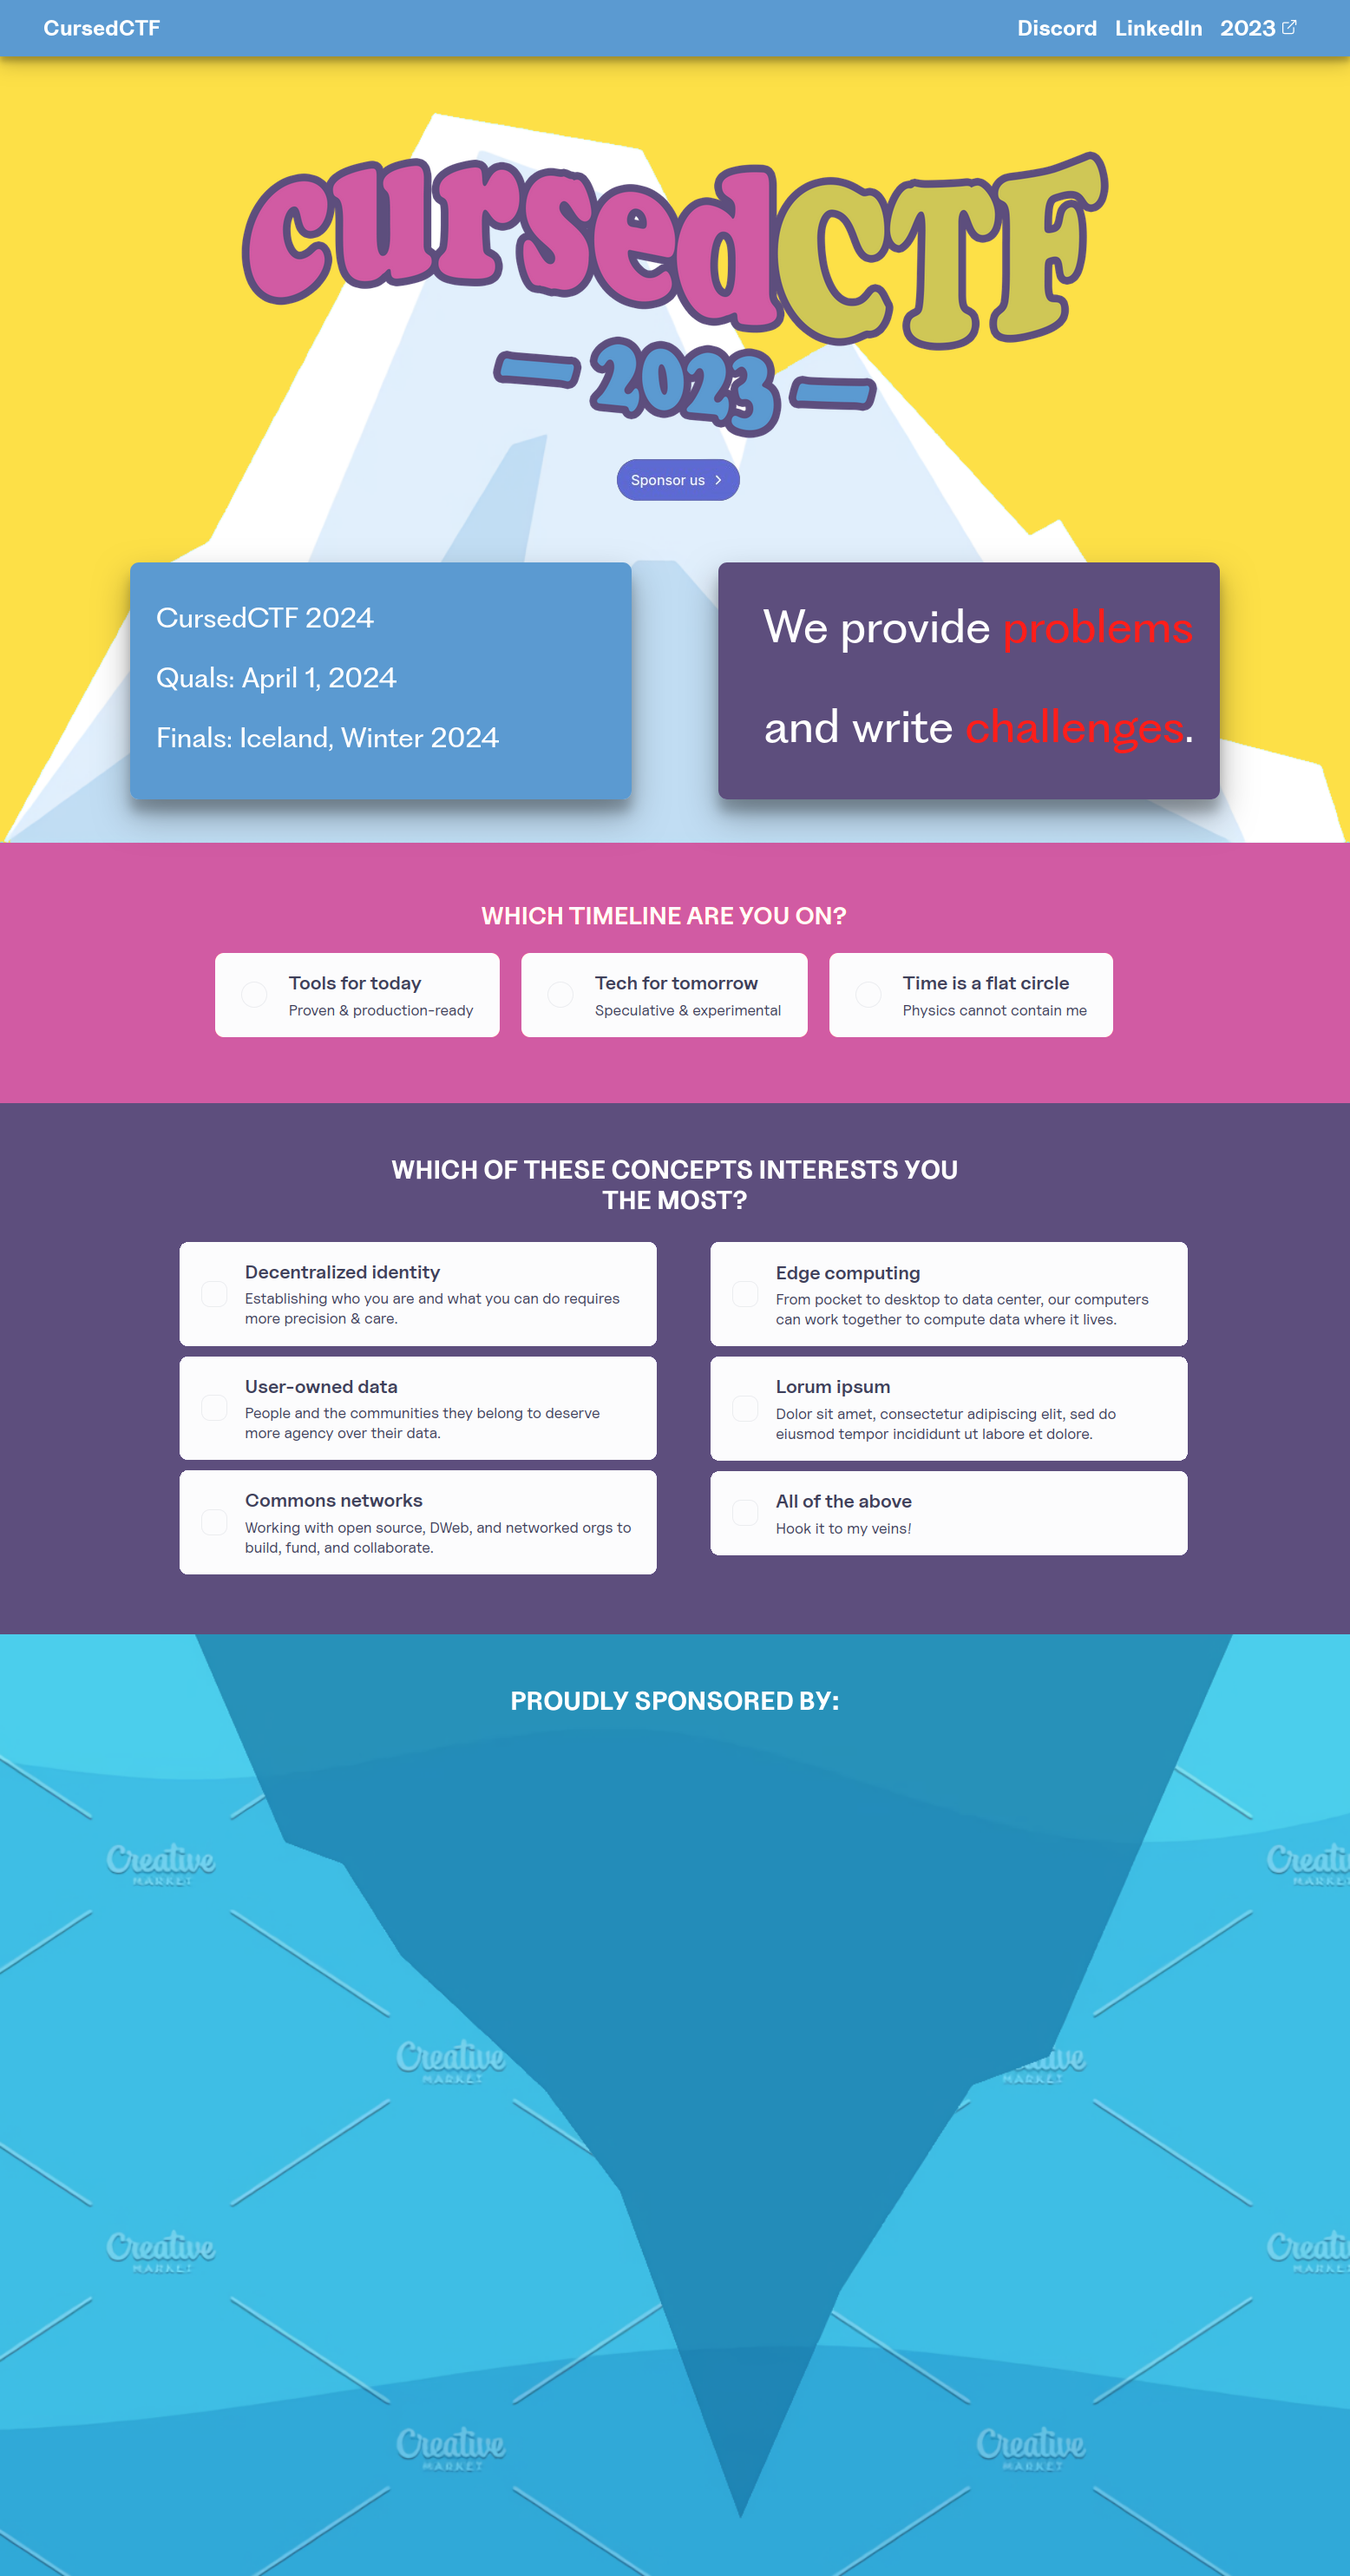
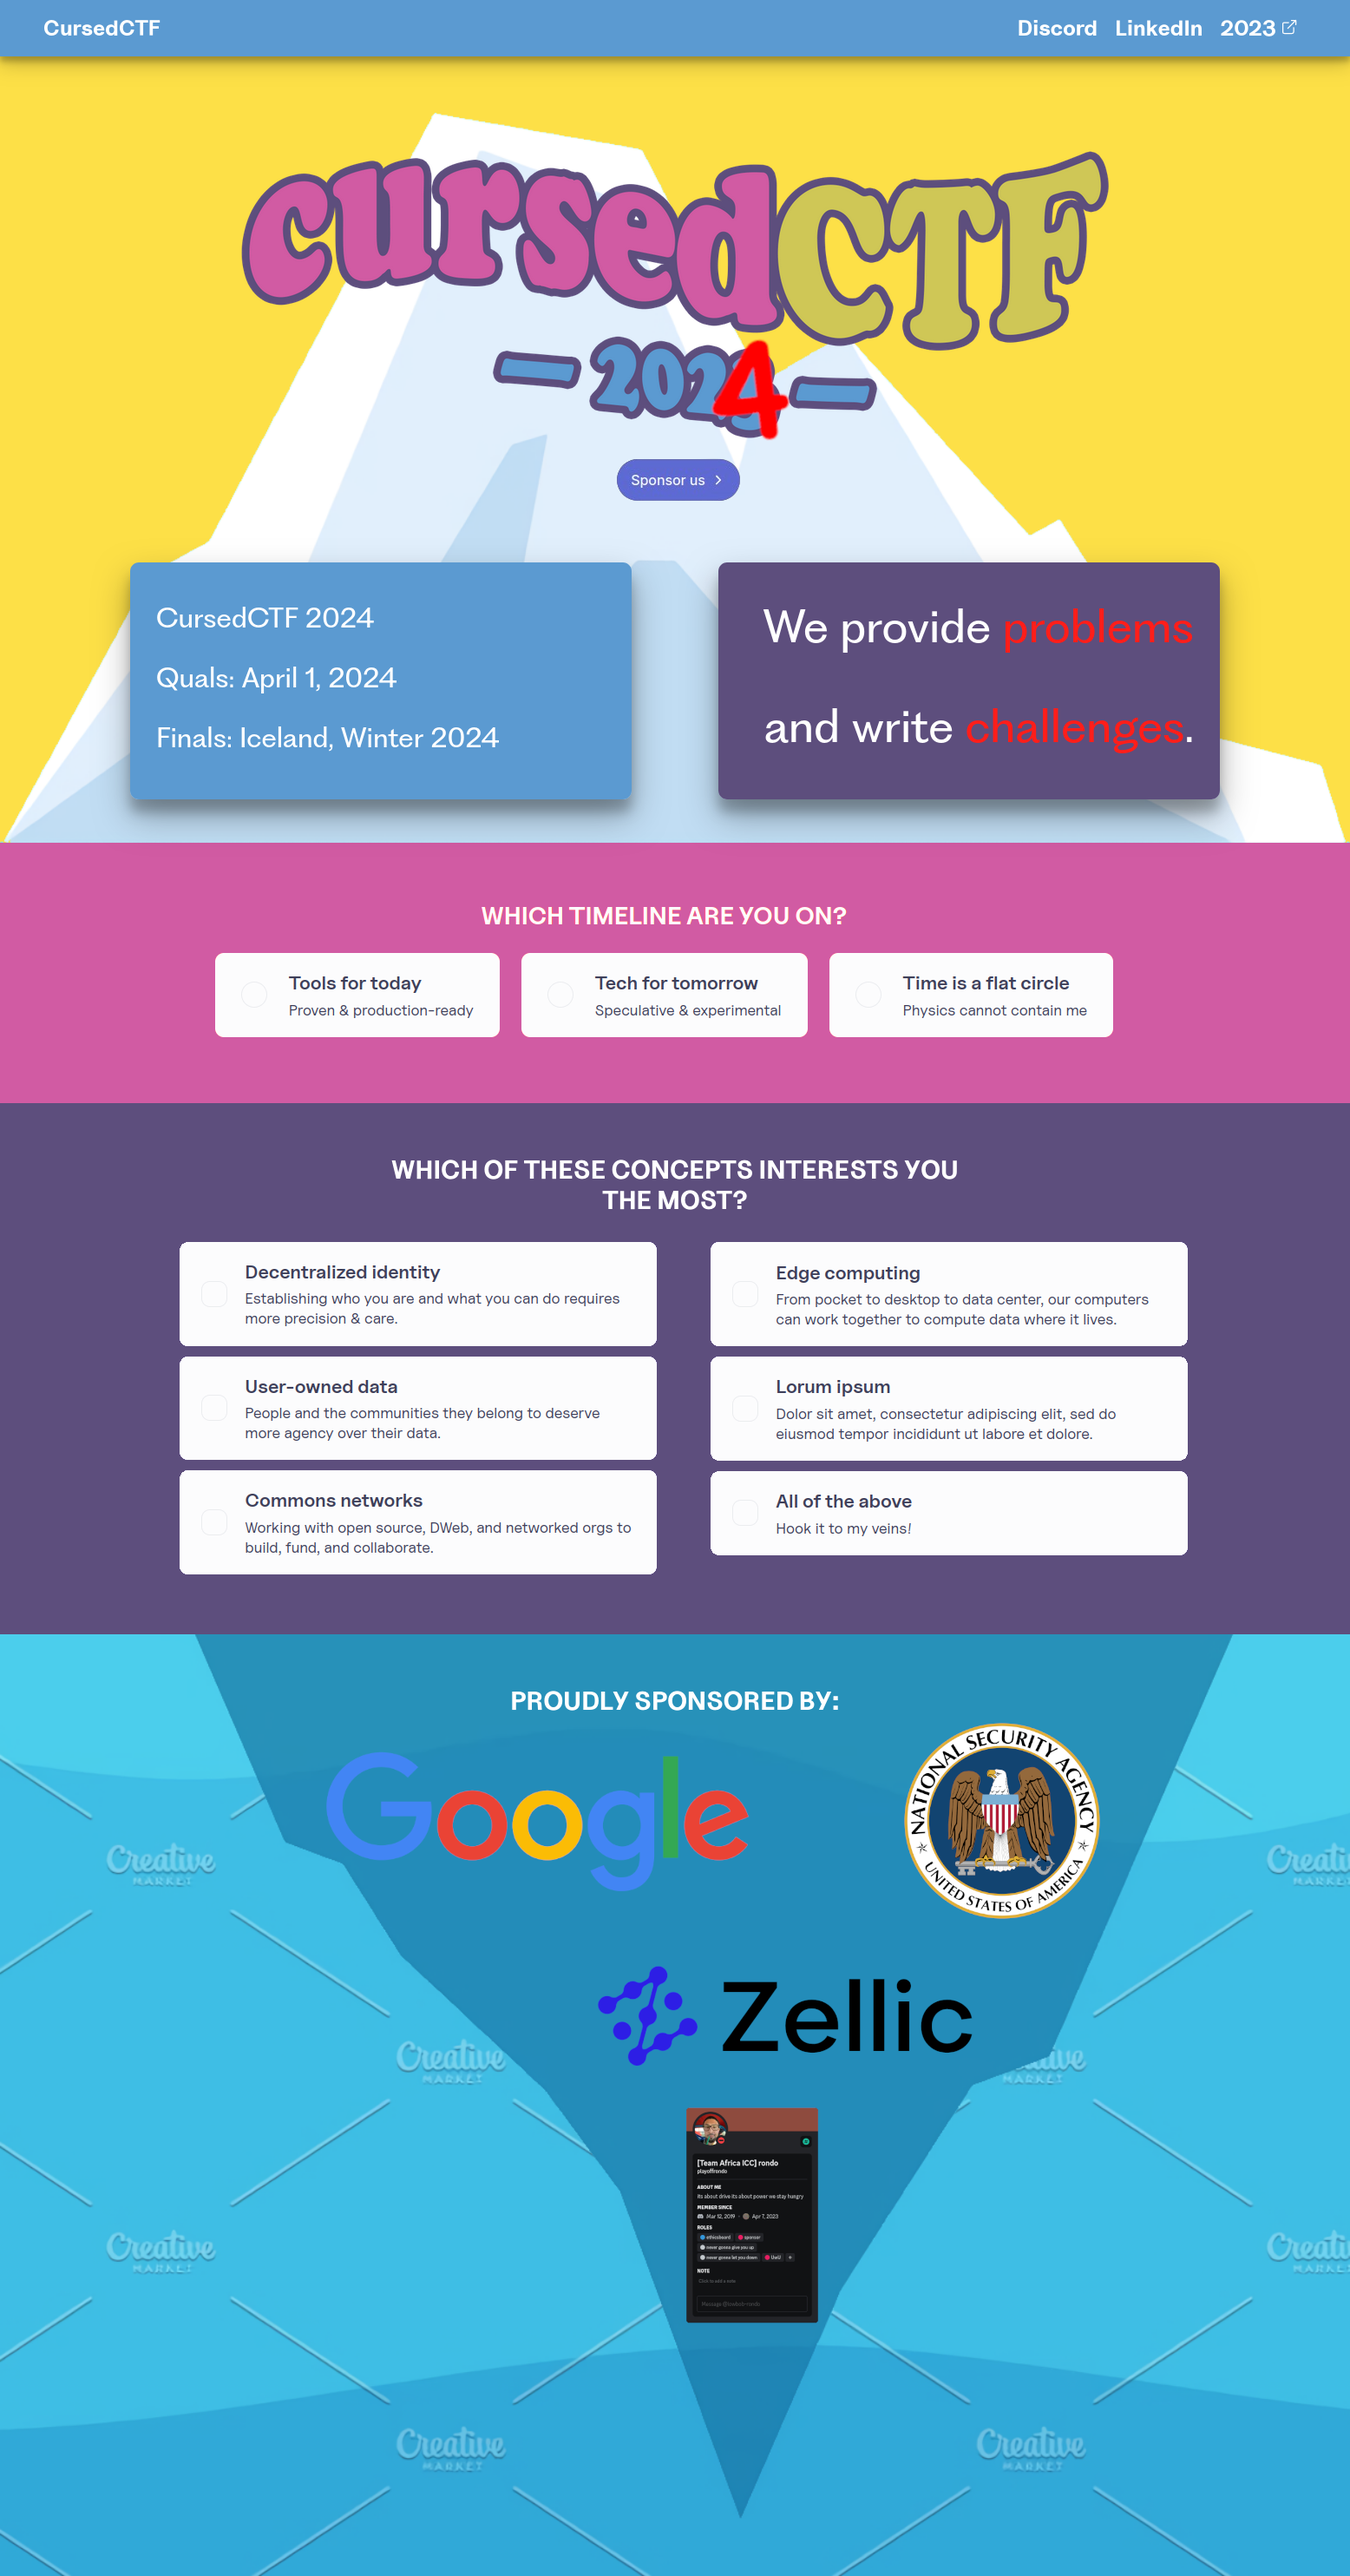
links, sponsors, 2024

Changed region(s): [[0.2468, 0.6819, 0.7404, 0.8989], [0.6478, 0.6509, 0.8329, 0.7439], [0.5244, 0.124, 0.5861, 0.186]]

diff --git a/index.html b/index.html
@@ -14,8 +14,18 @@
             background-size: cover;
             height: 190vw;
         }
+        a { position: absolute; }
     </style>
 </head>
 <body>
+    <a id="home" style="left: 3vw; width: 9vw; top: 0vh; height: 4vw;" href="https://cursedc.tf"></a>
+    <a id="discord" style="left: 75vw; width: 6.5vw; top: 0vh; height: 4vw;" href="https://discord.gg/RGzgGvTnYA"></a>
+    <a id="linkedin" style="left: 82.3vw; width: 7vw; top: 0vh; height: 4vw;" href="https://www.linkedin.com/company/cursedctf"></a>
+    <a id="2023" style="left: 90vw; width: 6.4vw; top: 0vh; height: 4vw;" target="_blank" href="https://cursedc.cf/2023.html"></a>
+    <a id="sponsor-us" style="left: 45.7vw; width: 9vw; top: 34vw; height: 3vw;" href="https://www.google.com/search?q=please+give+us+money"></a>
+    <a id="google" style="left: 24vw; width: 31.5vw; top: 130vw; height: 10vw;" href="https://goo.gle/ctfsponsorship"></a>
+    <a id="nsa" style="left: 67vw; width: 14.5vw; top: 127.5vw; height: 14.5vw;" href="https://www.nsa.gov/?n9iDHoBU=NcNVRGrYfV7afn/3GcZE7kcxVrjHa1DVCRTfUzHscwNis2mJyCyNucTmYPxyH1liAhUEbe39hLfLuz31"></a>
+    <a id="zellic" style="left: 44vw; width: 28vw; top: 145vw; height: 8vw;" href="https://www.zellic.io/"></a>
+    <a id="team-africa" style="left: 50.8vw; width: 9.7vw; top: 156vw; height: 16vw;" href="https://africaricc.org/"></a>
 </body>
 </html>
